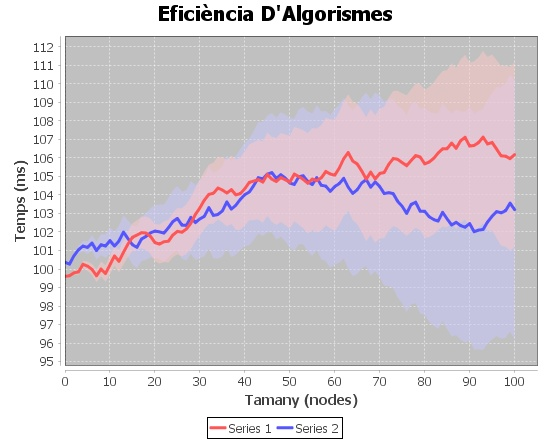
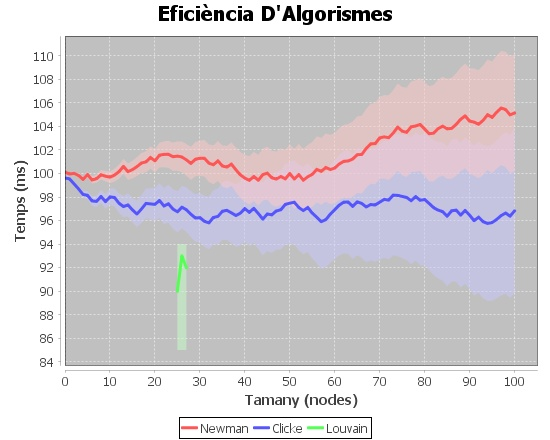
update

diff --git a/dominio/src/presentacion/CalculosGraficoEstadistica.java b/dominio/src/presentacion/CalculosGraficoEstadistica.java
@@ -27,8 +27,9 @@ public class CalculosGraficoEstadistica {
     private static final long serialVersionUID = 1L;
 
     private static XYDataset createDataset() {
-        YIntervalSeries series1 = new YIntervalSeries("Series 1");
-        YIntervalSeries series2 = new YIntervalSeries("Series 2");
+        YIntervalSeries series1 = new YIntervalSeries("Newman");
+        YIntervalSeries series2 = new YIntervalSeries("Clicke");
+        YIntervalSeries series3 = new YIntervalSeries("Louvain");
         double d = 100D;
         double d1 = 100D;
         for (int i = 0; i <= 100; i++) {
@@ -39,10 +40,14 @@ public class CalculosGraficoEstadistica {
             double d3 = 0.070000000000000007D * (double) i;
             series2.add(i, d1, d1 - d3, d1 + d3);
         }
+        series3.add(25, 90, 85, 94);
+        series3.add(26, 93, 85, 94);
+        series3.add(27, 92, 85, 94);
 
         YIntervalSeriesCollection dataset = new YIntervalSeriesCollection();
         dataset.addSeries(series1);
         dataset.addSeries(series2);
+        dataset.addSeries(series3);
         return dataset;
     }
 
@@ -56,10 +61,11 @@ public class CalculosGraficoEstadistica {
         plot.setRangeGridlinePaint(Color.white);
         DeviationRenderer renderer = new DeviationRenderer(true, false);
         renderer.setSeriesStroke(0, new BasicStroke(3F, 1, 1));
-        renderer.setSeriesStroke(0, new BasicStroke(3F, 1, 1));
         renderer.setSeriesStroke(1, new BasicStroke(3F, 1, 1));
+        renderer.setSeriesStroke(2, new BasicStroke(3F, 1, 1));
         renderer.setSeriesFillPaint(0, new Color(255, 200, 200));
         renderer.setSeriesFillPaint(1, new Color(200, 200, 255));
+        renderer.setSeriesFillPaint(2, new Color(200, 255, 200));
         plot.setRenderer(renderer);
         //
         NumberAxis valueAxis = (NumberAxis) plot.getRangeAxis();

diff --git a/dominio/src/presentacion/VistaEstadistica.java b/dominio/src/presentacion/VistaEstadistica.java
@@ -78,7 +78,7 @@ public class VistaEstadistica extends javax.swing.JFrame {
         );
         jPanel1Layout.setVerticalGroup(
             jPanel1Layout.createParallelGroup(javax.swing.GroupLayout.Alignment.LEADING)
-            .addGap(0, 413, Short.MAX_VALUE)
+            .addGap(0, 448, Short.MAX_VALUE)
         );
 
         javax.swing.GroupLayout layout = new javax.swing.GroupLayout(getContentPane());
@@ -101,7 +101,7 @@ public class VistaEstadistica extends javax.swing.JFrame {
                 .addComponent(jButton1, javax.swing.GroupLayout.PREFERRED_SIZE, 34, javax.swing.GroupLayout.PREFERRED_SIZE)
                 .addGap(21, 21, 21)
                 .addComponent(jButton2, javax.swing.GroupLayout.PREFERRED_SIZE, 33, javax.swing.GroupLayout.PREFERRED_SIZE)
-                .addContainerGap(285, Short.MAX_VALUE))
+                .addContainerGap(320, Short.MAX_VALUE))
             .addGroup(layout.createSequentialGroup()
                 .addContainerGap()
                 .addComponent(jPanel1, javax.swing.GroupLayout.DEFAULT_SIZE, javax.swing.GroupLayout.DEFAULT_SIZE, Short.MAX_VALUE)
